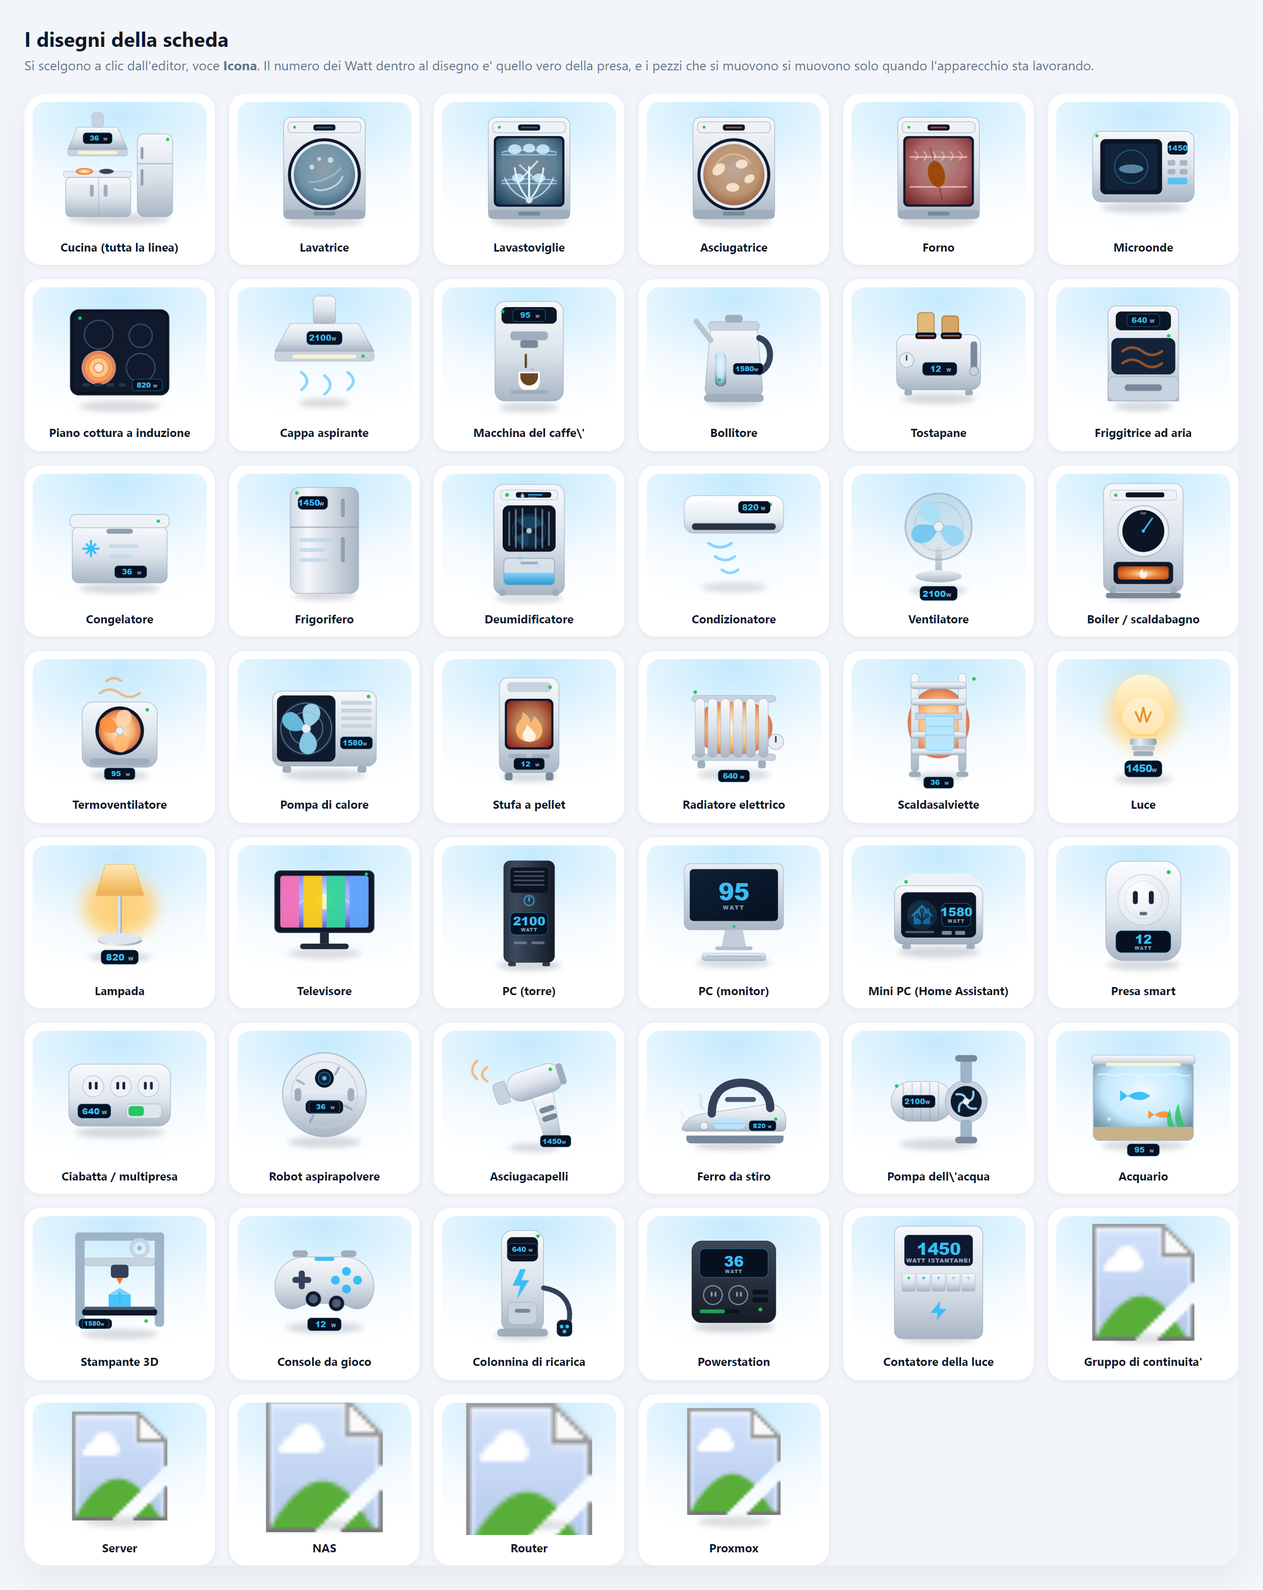
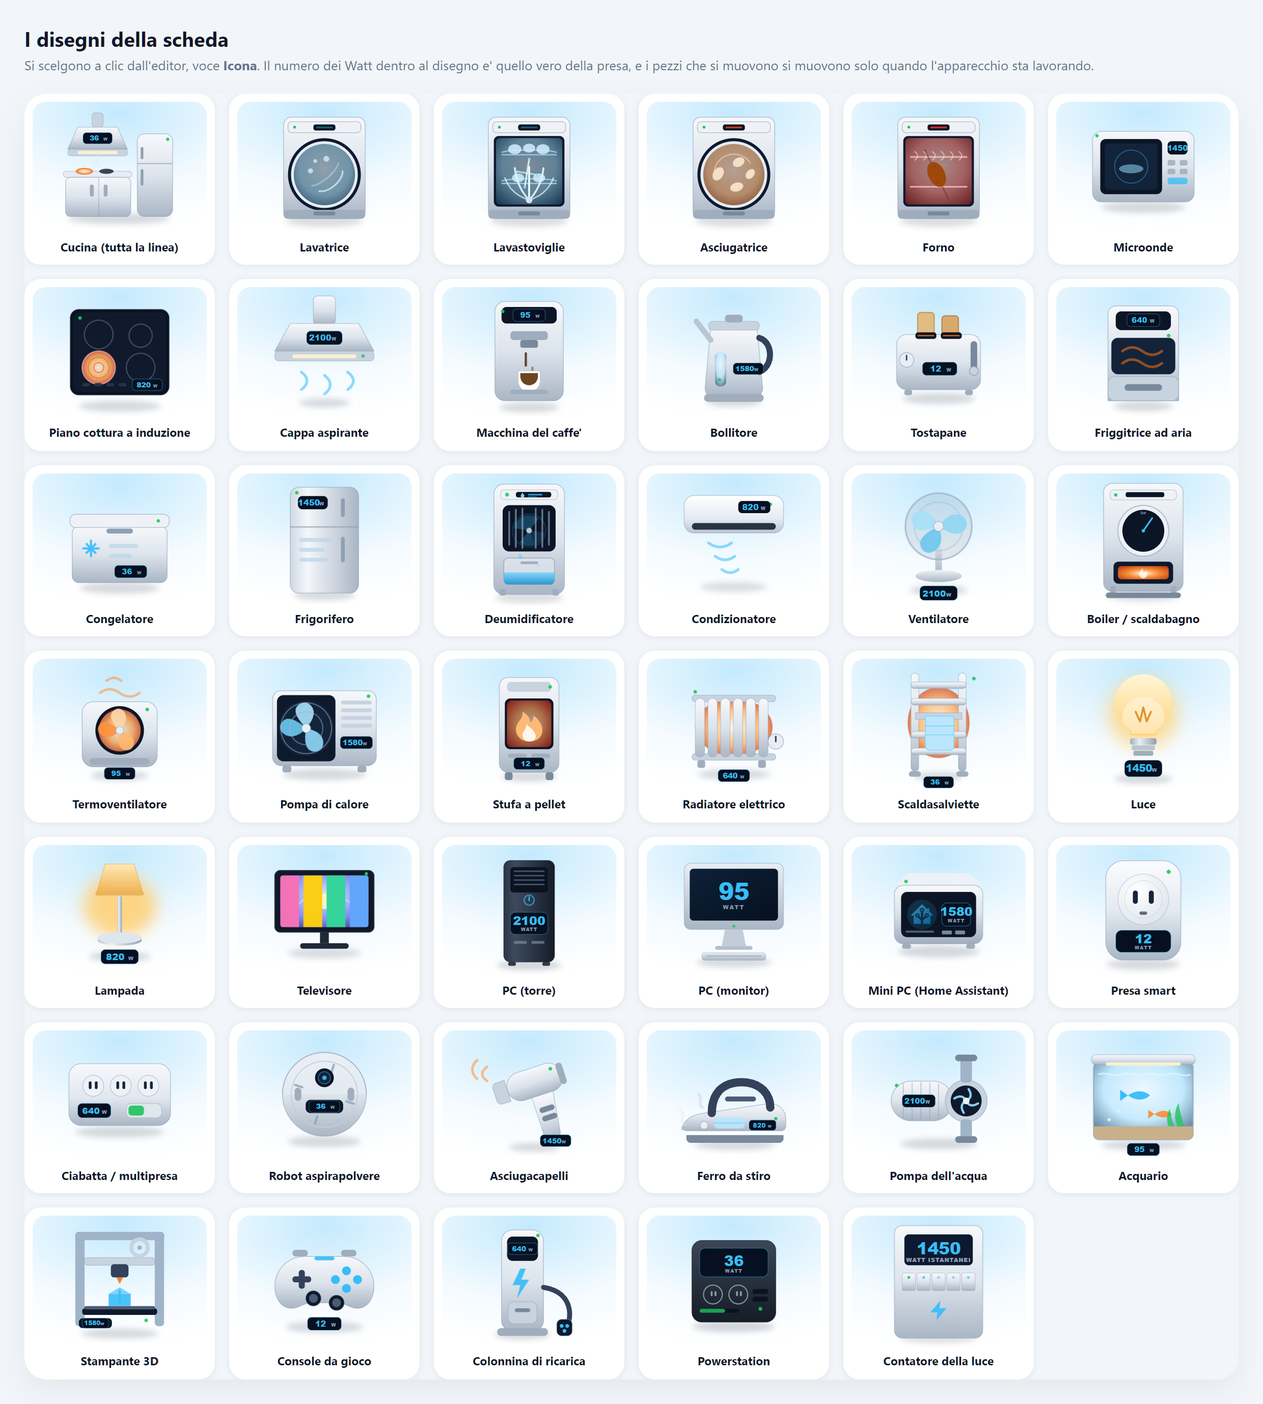
v2.93.1 - via i cinque "disegni" che erano foto mie
ups, server, nas, fritzbox e proxmox non erano disegnati: dentro avevano un
<image href="/local/foto-pkg/...">, cioe' una foto presa da una cartella che
esiste solo sul mio box. Su qualunque altra installazione venivano fuori
cinque rettangoli con l'icona di immagine rotta - e si vedevano anche nel
foglio dei disegni pubblicato ieri nel README.

In piu' erano marchi di altri (APC, Synology, AVM, Proxmox, il logo di Home
Assistant): non e' roba da mettere dentro a una card che si pubblica.

Via da tutte e quattro le parti: i disegni grandi, le iconcine in cima,
l'elenco dell'editor e le parole con cui la scheda indovina. Restano 41, tutti
disegnati. Foglio del README rifatto.

diff --git a/dist/casa-tile-card.js b/dist/casa-tile-card.js
@@ -4148,48 +4148,6 @@ const HERO_BUILDERS = {
     <rect x="76" y="178" width="88" height="10" rx="5" fill="#1f2937"/>
     <circle cx="196" cy="52" r="3" fill="#22c55e"/>
   </svg>`,
-  fritzbox: (id) => `<svg width="100%" height="100%" viewBox="0 0 240 240" preserveAspectRatio="xMidYMid meet" role="img" aria-hidden="true">
-    <defs>
-      <filter id="dmh-blur-${id}" x="-40%" y="-40%" width="180%" height="180%"><feGaussianBlur stdDeviation="5"/></filter>
-    </defs>
-    <ellipse cx="120" cy="222" rx="80" ry="9" fill="#0f172a" opacity=".14" filter="url(#dmh-blur-${id})"/>
-    <g class="dmh-glow" opacity=".7" stroke="#38bdf8" stroke-linecap="round" stroke-width="2.6" fill="none">
-      <path d="M111 42c3-3 15-3 18 0"/>
-      <path d="M103 36c8-7 26-7 34 0"/>
-      <path d="M95 30c13-11 37-11 50 0"/>
-    </g>
-    <circle cx="120" cy="44" r="2.6" fill="#38bdf8"/>
-    <image href="/local/foto-pkg/fritz-box.png" x="-44.43" y="1" width="328.86" height="260.82" preserveAspectRatio="xMidYMid meet"/>
-  </svg>`,
-  server: (id) => `<svg width="100%" height="100%" viewBox="0 0 240 240" preserveAspectRatio="xMidYMid meet" role="img" aria-hidden="true">
-    <defs>
-      <filter id="dmh-blur-${id}" x="-40%" y="-40%" width="180%" height="180%"><feGaussianBlur stdDeviation="5"/></filter>
-    </defs>
-    <ellipse cx="120" cy="216" rx="66" ry="10" fill="#0f172a" opacity=".14" filter="url(#dmh-blur-${id})"/>
-    <image href="/local/foto-pkg/ha_logo.gif" x="21.33" y="16.3" width="197.34" height="197.34" preserveAspectRatio="xMidYMid meet"/>
-  </svg>`,
-  proxmox: (id) => `<svg width="100%" height="100%" viewBox="0 0 240 240" preserveAspectRatio="xMidYMid meet" role="img" aria-hidden="true">
-    <defs>
-      <filter id="dmh-blur-${id}" x="-40%" y="-40%" width="180%" height="180%"><feGaussianBlur stdDeviation="5"/></filter>
-    </defs>
-    <ellipse cx="120" cy="216" rx="66" ry="10" fill="#0f172a" opacity=".14" filter="url(#dmh-blur-${id})"/>
-    <image href="/local/foto-pkg/proxmox-logo.svg" x="-1" y="10" width="242" height="193.6" preserveAspectRatio="xMidYMid meet"/>
-  </svg>`,
-  nas: (id) => `<svg width="100%" height="100%" viewBox="0 0 240 240" preserveAspectRatio="xMidYMid meet" role="img" aria-hidden="true">
-    <defs>
-      <filter id="dmh-blur-${id}" x="-40%" y="-40%" width="180%" height="180%"><feGaussianBlur stdDeviation="5"/></filter>
-    </defs>
-    <ellipse cx="120" cy="222" rx="70" ry="9" fill="#0f172a" opacity=".14" filter="url(#dmh-blur-${id})"/>
-    <image href="/local/foto-pkg/synology-ds925.png" x="-1" y="-7" width="242" height="242" preserveAspectRatio="xMidYMid meet"/>
-  </svg>`,
-  // Mini PC: il computerino che tiene acceso Home Assistant. Sul frontale il
-  // logo di casa (lo stesso disegno dell'icona mdi:home-assistant) e accanto
-  // il displayino con i watt di adesso, che la scheda riscrive da sola.
-  // Presa smart: la vede di faccia, con i due fori, il tastino e il displayino
-  // dei watt in basso (lo riscrive la scheda). Per le prese che misurano.
-  // Torre del PC: griglia d'aria in alto, tasto d'accensione che pulsa e il
-  // displayino dei watt sul frontale.
-  // Luce: la lampadina che si accende davvero quando l'entita' e' accesa.
   luce: (id) => `<svg width="100%" height="100%" viewBox="0 0 240 240" preserveAspectRatio="xMidYMid meet" role="img" aria-hidden="true">
     <defs>
       <filter id="dmh-blur-${id}" x="-40%" y="-40%" width="180%" height="180%"><feGaussianBlur stdDeviation="5"/></filter>
@@ -4487,15 +4445,6 @@ const HERO_BUILDERS = {
     <circle cx="174" cy="112" r="2.4" fill="#38bdf8" class="dmh-flicker" style="animation-delay:.6s"/>
     <path d="M13 2 3 14h7l-1 8 10-12h-7l1-8z" fill="#38bdf8" opacity=".85" class="dmh-glow" transform="translate(100 150) scale(1.8)"/>
   </svg>`,
-  ups: (id) => `<svg width="100%" height="100%" viewBox="0 0 240 240" preserveAspectRatio="xMidYMid meet" role="img" aria-hidden="true">
-    <defs>
-      <filter id="dmh-blur-${id}" x="-40%" y="-40%" width="180%" height="180%"><feGaussianBlur stdDeviation="5"/></filter>
-    </defs>
-    <ellipse cx="120" cy="222" rx="60" ry="9" fill="#0f172a" opacity=".14" filter="url(#dmh-blur-${id})"/>
-    <image href="/local/foto-pkg/apc-ups.png" x="17.15" y="14" width="205.7" height="211.75" preserveAspectRatio="xMidYMid meet"/>
-  </svg>`,
-  // Deumidificatore: torre con la griglia dell'aria, la ventola che gira dietro
-  // le lamelle, le gocce che cadono nella tanica e l'acqua che ondeggia piano.
   dehumidifier: (id) => `<svg width="100%" height="100%" viewBox="0 0 240 240" preserveAspectRatio="xMidYMid meet" role="img" aria-hidden="true">
     <defs>
       <filter id="dmh-blur-${id}" x="-40%" y="-40%" width="180%" height="180%"><feGaussianBlur stdDeviation="5"/></filter>
@@ -4586,12 +4535,6 @@ const CHIP_SVGS = {
     '<svg viewBox="0 0 96 96" width="27" height="27"><rect x="14" y="10" width="68" height="76" rx="9" fill="#0f2942"/><circle cx="48" cy="38" r="17" fill="#f8fafc"/><path d="M48 26c-5 7-9 10-9 16a9 9 0 0 0 18 0c0-3-1-6-3-8 0 3-2 5-4 4-2-1-2-5-1-7-3 1-4 3-4 3z" fill="#fb923c"/><rect x="28" y="62" width="40" height="10" rx="4" fill="#38bdf8"/></svg>',
   tv:
     '<svg viewBox="0 0 96 96" width="27" height="27"><rect x="10" y="20" width="76" height="48" rx="6" fill="#0f2942"/><rect x="16" y="26" width="64" height="36" rx="3" fill="#8be2ff"/><rect x="42" y="68" width="12" height="10" fill="#0f2942"/><rect x="30" y="78" width="36" height="6" rx="3" fill="#0f2942"/></svg>',
-  fritzbox:
-    '<svg viewBox="0 0 96 96" width="27" height="27"><rect x="10" y="34" width="76" height="30" rx="8" fill="#0f2942"/><circle cx="26" cy="49" r="3" fill="#22c55e"/><circle cx="38" cy="49" r="3" fill="#38bdf8"/><circle cx="50" cy="49" r="3" fill="#38bdf8"/><path d="M48 30c-10-10-10-24 0-34" stroke="#38bdf8" stroke-width="3" fill="none" stroke-linecap="round" transform="translate(0 8)"/><path d="M48 30c-4-4-4-10 0-14" stroke="#38bdf8" stroke-width="3" fill="none" stroke-linecap="round" transform="translate(0 8)"/></svg>',
-  server:
-    '<svg viewBox="0 0 96 96" width="27" height="27"><rect x="14" y="10" width="68" height="76" rx="9" fill="#0f2942"/><rect x="20" y="16" width="56" height="16" rx="4" fill="#0b1526"/><circle cx="28" cy="24" r="2.6" fill="#22c55e"/><circle cx="36" cy="24" r="2.6" fill="#38bdf8"/><rect x="44" y="21.5" width="26" height="5" rx="2.5" fill="#38bdf8" opacity=".6"/><rect x="20" y="36" width="56" height="16" rx="4" fill="#0b1526"/><circle cx="28" cy="44" r="2.6" fill="#22c55e"/><circle cx="36" cy="44" r="2.6" fill="#38bdf8"/><rect x="44" y="41.5" width="26" height="5" rx="2.5" fill="#38bdf8" opacity=".6"/><rect x="20" y="56" width="56" height="16" rx="4" fill="#0b1526"/><circle cx="28" cy="64" r="2.6" fill="#22c55e"/><circle cx="36" cy="64" r="2.6" fill="#38bdf8"/><rect x="44" y="61.5" width="26" height="5" rx="2.5" fill="#38bdf8" opacity=".6"/></svg>',
-  nas:
-    '<svg viewBox="0 0 96 96" width="27" height="27"><rect x="30" y="8" width="36" height="80" rx="6" fill="#0f2942"/><rect x="36" y="16" width="24" height="10" rx="2" fill="#0b1526"/><circle cx="42" cy="21" r="2" fill="#22c55e"/><rect x="36" y="30" width="24" height="10" rx="2" fill="#0b1526"/><circle cx="42" cy="35" r="2" fill="#38bdf8"/><rect x="36" y="44" width="24" height="10" rx="2" fill="#0b1526"/><circle cx="42" cy="49" r="2" fill="#38bdf8"/><rect x="36" y="58" width="24" height="10" rx="2" fill="#0b1526"/><circle cx="42" cy="63" r="2" fill="#38bdf8"/></svg>',
   luce:
     '<svg viewBox="0 0 96 96" width="27" height="27"><rect x="14" y="10" width="68" height="76" rx="9" fill="#0f2942"/><path d="M48 20a20 20 0 0 1 12 36c-2 2-3 4-3 6H39c0-2-1-4-3-6a20 20 0 0 1 12-36z" fill="#f8fafc"/><path d="M41 38l4 8 3-12 3 12 4-8" fill="none" stroke="#0f2942" stroke-width="3" stroke-linecap="round" stroke-linejoin="round"/><rect x="40" y="64" width="16" height="5" rx="2.5" fill="#8be2ff"/><rect x="38" y="72" width="20" height="8" rx="3" fill="#38bdf8"/></svg>',
   condizionatore:
@@ -4618,8 +4561,6 @@ const CHIP_SVGS = {
     '<svg viewBox="0 0 96 96" width="27" height="27"><g transform="translate(0,-6.5)"><rect x="10" y="26" width="76" height="48" rx="9" fill="#0f2942"/><g transform="translate(48 50) scale(1.55) translate(-12 -12)"><path d="M21.8,13H20V21H13V17.67L15.79,14.88L16.5,15C17.66,15 18.6,14.06 18.6,12.9C18.6,11.74 17.66,10.8 16.5,10.8A2.1,2.1 0 0,0 14.4,12.9L14.5,13.61L13,15.13V9.65C13.66,9.29 14.1,8.6 14.1,7.8A2.1,2.1 0 0,0 12,5.7A2.1,2.1 0 0,0 9.9,7.8C9.9,8.6 10.34,9.29 11,9.65V15.13L9.5,13.61L9.6,12.9A2.1,2.1 0 0,0 7.5,10.8A2.1,2.1 0 0,0 5.4,12.9A2.1,2.1 0 0,0 7.5,15L8.21,14.88L11,17.67V21H4V13H2.25C1.83,13 1.42,13 1.42,12.79C1.43,12.57 1.85,12.15 2.28,11.72L11,3C11.33,2.67 11.67,2.33 12,2.33C12.33,2.33 12.67,2.67 13,3L17,7V6H19V9L21.78,11.78C22.18,12.18 22.59,12.59 22.6,12.8C22.6,13 22.2,13 21.8,13M7.5,12A0.9,0.9 0 0,1 8.4,12.9A0.9,0.9 0 0,1 7.5,13.8A0.9,0.9 0 0,1 6.6,12.9A0.9,0.9 0 0,1 7.5,12M16.5,12C17,12 17.4,12.4 17.4,12.9C17.4,13.4 17,13.8 16.5,13.8A0.9,0.9 0 0,1 15.6,12.9A0.9,0.9 0 0,1 16.5,12M12,6.9C12.5,6.9 12.9,7.3 12.9,7.8C12.9,8.3 12.5,8.7 12,8.7C11.5,8.7 11.1,8.3 11.1,7.8C11.1,7.3 11.5,6.9 12,6.9Z" fill="#38bdf8"/></g><rect x="22" y="78" width="52" height="5" rx="2.5" fill="#0f2942" opacity=".55"/></g></svg>',
   energy:
     '<svg viewBox="0 0 96 96" width="27" height="27"><rect x="14" y="10" width="68" height="76" rx="9" fill="#0f2942"/><path d="M52 22 30 54h14l-2 20 26-34H54l-2-18z" fill="#38bdf8"/></svg>',
-  ups:
-    '<svg viewBox="0 0 96 96" width="27" height="27"><rect x="24" y="8" width="48" height="80" rx="8" fill="#0f2942"/><rect x="34" y="20" width="28" height="46" rx="4" fill="none" stroke="#8be2ff" stroke-width="3"/><rect x="38" y="26" width="20" height="34" rx="2" fill="#38bdf8"/><circle cx="48" cy="76" r="3" fill="#22c55e"/></svg>',
 };
 
 const ICON_CHART =
@@ -9981,7 +9922,7 @@ ha-form[acceso] { outline: 2px solid var(--primary-color, #5ec8ff);
 // -*- coding: utf-8 -*-
 // Che versione e': la scrivo in un posto solo.
 
-const VERSIONE = "2.93.0";
+const VERSIONE = "2.93.1";
 
 // -*- coding: utf-8 -*-
 // Il riquadro delle impostazioni.
@@ -24316,11 +24257,6 @@ const DISEGNI = [
   ["colonnina", "Colonnina di ricarica"],
   ["powerstation", "Powerstation"],
   ["energy", "Contatore della luce"],
-  ["ups", "Gruppo di continuita'"],
-  ["server", "Server"],
-  ["nas", "NAS"],
-  ["fritzbox", "Router"],
-  ["proxmox", "Proxmox"],
 ];
 
 const ETICHETTE = {

diff --git a/src/elettro-comune.js b/src/elettro-comune.js
@@ -152,48 +152,6 @@ const HERO_BUILDERS = {
     <rect x="76" y="178" width="88" height="10" rx="5" fill="#1f2937"/>
     <circle cx="196" cy="52" r="3" fill="#22c55e"/>
   </svg>`,
-  fritzbox: (id) => `<svg width="100%" height="100%" viewBox="0 0 240 240" preserveAspectRatio="xMidYMid meet" role="img" aria-hidden="true">
-    <defs>
-      <filter id="dmh-blur-${id}" x="-40%" y="-40%" width="180%" height="180%"><feGaussianBlur stdDeviation="5"/></filter>
-    </defs>
-    <ellipse cx="120" cy="222" rx="80" ry="9" fill="#0f172a" opacity=".14" filter="url(#dmh-blur-${id})"/>
-    <g class="dmh-glow" opacity=".7" stroke="#38bdf8" stroke-linecap="round" stroke-width="2.6" fill="none">
-      <path d="M111 42c3-3 15-3 18 0"/>
-      <path d="M103 36c8-7 26-7 34 0"/>
-      <path d="M95 30c13-11 37-11 50 0"/>
-    </g>
-    <circle cx="120" cy="44" r="2.6" fill="#38bdf8"/>
-    <image href="/local/foto-pkg/fritz-box.png" x="-44.43" y="1" width="328.86" height="260.82" preserveAspectRatio="xMidYMid meet"/>
-  </svg>`,
-  server: (id) => `<svg width="100%" height="100%" viewBox="0 0 240 240" preserveAspectRatio="xMidYMid meet" role="img" aria-hidden="true">
-    <defs>
-      <filter id="dmh-blur-${id}" x="-40%" y="-40%" width="180%" height="180%"><feGaussianBlur stdDeviation="5"/></filter>
-    </defs>
-    <ellipse cx="120" cy="216" rx="66" ry="10" fill="#0f172a" opacity=".14" filter="url(#dmh-blur-${id})"/>
-    <image href="/local/foto-pkg/ha_logo.gif" x="21.33" y="16.3" width="197.34" height="197.34" preserveAspectRatio="xMidYMid meet"/>
-  </svg>`,
-  proxmox: (id) => `<svg width="100%" height="100%" viewBox="0 0 240 240" preserveAspectRatio="xMidYMid meet" role="img" aria-hidden="true">
-    <defs>
-      <filter id="dmh-blur-${id}" x="-40%" y="-40%" width="180%" height="180%"><feGaussianBlur stdDeviation="5"/></filter>
-    </defs>
-    <ellipse cx="120" cy="216" rx="66" ry="10" fill="#0f172a" opacity=".14" filter="url(#dmh-blur-${id})"/>
-    <image href="/local/foto-pkg/proxmox-logo.svg" x="-1" y="10" width="242" height="193.6" preserveAspectRatio="xMidYMid meet"/>
-  </svg>`,
-  nas: (id) => `<svg width="100%" height="100%" viewBox="0 0 240 240" preserveAspectRatio="xMidYMid meet" role="img" aria-hidden="true">
-    <defs>
-      <filter id="dmh-blur-${id}" x="-40%" y="-40%" width="180%" height="180%"><feGaussianBlur stdDeviation="5"/></filter>
-    </defs>
-    <ellipse cx="120" cy="222" rx="70" ry="9" fill="#0f172a" opacity=".14" filter="url(#dmh-blur-${id})"/>
-    <image href="/local/foto-pkg/synology-ds925.png" x="-1" y="-7" width="242" height="242" preserveAspectRatio="xMidYMid meet"/>
-  </svg>`,
-  // Mini PC: il computerino che tiene acceso Home Assistant. Sul frontale il
-  // logo di casa (lo stesso disegno dell'icona mdi:home-assistant) e accanto
-  // il displayino con i watt di adesso, che la scheda riscrive da sola.
-  // Presa smart: la vede di faccia, con i due fori, il tastino e il displayino
-  // dei watt in basso (lo riscrive la scheda). Per le prese che misurano.
-  // Torre del PC: griglia d'aria in alto, tasto d'accensione che pulsa e il
-  // displayino dei watt sul frontale.
-  // Luce: la lampadina che si accende davvero quando l'entita' e' accesa.
   luce: (id) => `<svg width="100%" height="100%" viewBox="0 0 240 240" preserveAspectRatio="xMidYMid meet" role="img" aria-hidden="true">
     <defs>
       <filter id="dmh-blur-${id}" x="-40%" y="-40%" width="180%" height="180%"><feGaussianBlur stdDeviation="5"/></filter>
@@ -491,15 +449,6 @@ const HERO_BUILDERS = {
     <circle cx="174" cy="112" r="2.4" fill="#38bdf8" class="dmh-flicker" style="animation-delay:.6s"/>
     <path d="M13 2 3 14h7l-1 8 10-12h-7l1-8z" fill="#38bdf8" opacity=".85" class="dmh-glow" transform="translate(100 150) scale(1.8)"/>
   </svg>`,
-  ups: (id) => `<svg width="100%" height="100%" viewBox="0 0 240 240" preserveAspectRatio="xMidYMid meet" role="img" aria-hidden="true">
-    <defs>
-      <filter id="dmh-blur-${id}" x="-40%" y="-40%" width="180%" height="180%"><feGaussianBlur stdDeviation="5"/></filter>
-    </defs>
-    <ellipse cx="120" cy="222" rx="60" ry="9" fill="#0f172a" opacity=".14" filter="url(#dmh-blur-${id})"/>
-    <image href="/local/foto-pkg/apc-ups.png" x="17.15" y="14" width="205.7" height="211.75" preserveAspectRatio="xMidYMid meet"/>
-  </svg>`,
-  // Deumidificatore: torre con la griglia dell'aria, la ventola che gira dietro
-  // le lamelle, le gocce che cadono nella tanica e l'acqua che ondeggia piano.
   dehumidifier: (id) => `<svg width="100%" height="100%" viewBox="0 0 240 240" preserveAspectRatio="xMidYMid meet" role="img" aria-hidden="true">
     <defs>
       <filter id="dmh-blur-${id}" x="-40%" y="-40%" width="180%" height="180%"><feGaussianBlur stdDeviation="5"/></filter>
@@ -590,12 +539,6 @@ const CHIP_SVGS = {
     '<svg viewBox="0 0 96 96" width="27" height="27"><rect x="14" y="10" width="68" height="76" rx="9" fill="#0f2942"/><circle cx="48" cy="38" r="17" fill="#f8fafc"/><path d="M48 26c-5 7-9 10-9 16a9 9 0 0 0 18 0c0-3-1-6-3-8 0 3-2 5-4 4-2-1-2-5-1-7-3 1-4 3-4 3z" fill="#fb923c"/><rect x="28" y="62" width="40" height="10" rx="4" fill="#38bdf8"/></svg>',
   tv:
     '<svg viewBox="0 0 96 96" width="27" height="27"><rect x="10" y="20" width="76" height="48" rx="6" fill="#0f2942"/><rect x="16" y="26" width="64" height="36" rx="3" fill="#8be2ff"/><rect x="42" y="68" width="12" height="10" fill="#0f2942"/><rect x="30" y="78" width="36" height="6" rx="3" fill="#0f2942"/></svg>',
-  fritzbox:
-    '<svg viewBox="0 0 96 96" width="27" height="27"><rect x="10" y="34" width="76" height="30" rx="8" fill="#0f2942"/><circle cx="26" cy="49" r="3" fill="#22c55e"/><circle cx="38" cy="49" r="3" fill="#38bdf8"/><circle cx="50" cy="49" r="3" fill="#38bdf8"/><path d="M48 30c-10-10-10-24 0-34" stroke="#38bdf8" stroke-width="3" fill="none" stroke-linecap="round" transform="translate(0 8)"/><path d="M48 30c-4-4-4-10 0-14" stroke="#38bdf8" stroke-width="3" fill="none" stroke-linecap="round" transform="translate(0 8)"/></svg>',
-  server:
-    '<svg viewBox="0 0 96 96" width="27" height="27"><rect x="14" y="10" width="68" height="76" rx="9" fill="#0f2942"/><rect x="20" y="16" width="56" height="16" rx="4" fill="#0b1526"/><circle cx="28" cy="24" r="2.6" fill="#22c55e"/><circle cx="36" cy="24" r="2.6" fill="#38bdf8"/><rect x="44" y="21.5" width="26" height="5" rx="2.5" fill="#38bdf8" opacity=".6"/><rect x="20" y="36" width="56" height="16" rx="4" fill="#0b1526"/><circle cx="28" cy="44" r="2.6" fill="#22c55e"/><circle cx="36" cy="44" r="2.6" fill="#38bdf8"/><rect x="44" y="41.5" width="26" height="5" rx="2.5" fill="#38bdf8" opacity=".6"/><rect x="20" y="56" width="56" height="16" rx="4" fill="#0b1526"/><circle cx="28" cy="64" r="2.6" fill="#22c55e"/><circle cx="36" cy="64" r="2.6" fill="#38bdf8"/><rect x="44" y="61.5" width="26" height="5" rx="2.5" fill="#38bdf8" opacity=".6"/></svg>',
-  nas:
-    '<svg viewBox="0 0 96 96" width="27" height="27"><rect x="30" y="8" width="36" height="80" rx="6" fill="#0f2942"/><rect x="36" y="16" width="24" height="10" rx="2" fill="#0b1526"/><circle cx="42" cy="21" r="2" fill="#22c55e"/><rect x="36" y="30" width="24" height="10" rx="2" fill="#0b1526"/><circle cx="42" cy="35" r="2" fill="#38bdf8"/><rect x="36" y="44" width="24" height="10" rx="2" fill="#0b1526"/><circle cx="42" cy="49" r="2" fill="#38bdf8"/><rect x="36" y="58" width="24" height="10" rx="2" fill="#0b1526"/><circle cx="42" cy="63" r="2" fill="#38bdf8"/></svg>',
   luce:
     '<svg viewBox="0 0 96 96" width="27" height="27"><rect x="14" y="10" width="68" height="76" rx="9" fill="#0f2942"/><path d="M48 20a20 20 0 0 1 12 36c-2 2-3 4-3 6H39c0-2-1-4-3-6a20 20 0 0 1 12-36z" fill="#f8fafc"/><path d="M41 38l4 8 3-12 3 12 4-8" fill="none" stroke="#0f2942" stroke-width="3" stroke-linecap="round" stroke-linejoin="round"/><rect x="40" y="64" width="16" height="5" rx="2.5" fill="#8be2ff"/><rect x="38" y="72" width="20" height="8" rx="3" fill="#38bdf8"/></svg>',
   condizionatore:
@@ -622,8 +565,6 @@ const CHIP_SVGS = {
     '<svg viewBox="0 0 96 96" width="27" height="27"><g transform="translate(0,-6.5)"><rect x="10" y="26" width="76" height="48" rx="9" fill="#0f2942"/><g transform="translate(48 50) scale(1.55) translate(-12 -12)"><path d="M21.8,13H20V21H13V17.67L15.79,14.88L16.5,15C17.66,15 18.6,14.06 18.6,12.9C18.6,11.74 17.66,10.8 16.5,10.8A2.1,2.1 0 0,0 14.4,12.9L14.5,13.61L13,15.13V9.65C13.66,9.29 14.1,8.6 14.1,7.8A2.1,2.1 0 0,0 12,5.7A2.1,2.1 0 0,0 9.9,7.8C9.9,8.6 10.34,9.29 11,9.65V15.13L9.5,13.61L9.6,12.9A2.1,2.1 0 0,0 7.5,10.8A2.1,2.1 0 0,0 5.4,12.9A2.1,2.1 0 0,0 7.5,15L8.21,14.88L11,17.67V21H4V13H2.25C1.83,13 1.42,13 1.42,12.79C1.43,12.57 1.85,12.15 2.28,11.72L11,3C11.33,2.67 11.67,2.33 12,2.33C12.33,2.33 12.67,2.67 13,3L17,7V6H19V9L21.78,11.78C22.18,12.18 22.59,12.59 22.6,12.8C22.6,13 22.2,13 21.8,13M7.5,12A0.9,0.9 0 0,1 8.4,12.9A0.9,0.9 0 0,1 7.5,13.8A0.9,0.9 0 0,1 6.6,12.9A0.9,0.9 0 0,1 7.5,12M16.5,12C17,12 17.4,12.4 17.4,12.9C17.4,13.4 17,13.8 16.5,13.8A0.9,0.9 0 0,1 15.6,12.9A0.9,0.9 0 0,1 16.5,12M12,6.9C12.5,6.9 12.9,7.3 12.9,7.8C12.9,8.3 12.5,8.7 12,8.7C11.5,8.7 11.1,8.3 11.1,7.8C11.1,7.3 11.5,6.9 12,6.9Z" fill="#38bdf8"/></g><rect x="22" y="78" width="52" height="5" rx="2.5" fill="#0f2942" opacity=".55"/></g></svg>',
   energy:
     '<svg viewBox="0 0 96 96" width="27" height="27"><rect x="14" y="10" width="68" height="76" rx="9" fill="#0f2942"/><path d="M52 22 30 54h14l-2 20 26-34H54l-2-18z" fill="#38bdf8"/></svg>',
-  ups:
-    '<svg viewBox="0 0 96 96" width="27" height="27"><rect x="24" y="8" width="48" height="80" rx="8" fill="#0f2942"/><rect x="34" y="20" width="28" height="46" rx="4" fill="none" stroke="#8be2ff" stroke-width="3"/><rect x="38" y="26" width="20" height="34" rx="2" fill="#38bdf8"/><circle cx="48" cy="76" r="3" fill="#22c55e"/></svg>',
 };
 
 const ICON_CHART =

diff --git a/src/elettro-elettrodomestico-editor.js b/src/elettro-elettrodomestico-editor.js
@@ -64,11 +64,6 @@ const DISEGNI = [
   ["colonnina", "Colonnina di ricarica"],
   ["powerstation", "Powerstation"],
   ["energy", "Contatore della luce"],
-  ["ups", "Gruppo di continuita'"],
-  ["server", "Server"],
-  ["nas", "NAS"],
-  ["fritzbox", "Router"],
-  ["proxmox", "Proxmox"],
 ];
 
 const ETICHETTE = {

diff --git a/src/versione.js b/src/versione.js
@@ -1,4 +1,4 @@
 // -*- coding: utf-8 -*-
 // Che versione e': la scrivo in un posto solo.
 
-export const VERSIONE = "2.93.0";
+export const VERSIONE = "2.93.1";

diff --git a/README.en.md b/README.en.md
@@ -160,7 +160,7 @@ touches the month if you ask.
 
 ### The artwork
 
-Forty-six drawings, all hand-made. Pick one by click in the editor, **Icon**
+Forty-one drawings, all hand-made. Pick one by click in the editor, **Icon**
 field. The watt number inside the drawing is the real one from the plug, and the
 moving parts - the drum, the blades, the flame, the steam, the bubbles - move
 **only while the appliance is working**. When the card is off the drawing turns

diff --git a/README.md b/README.md
@@ -162,7 +162,7 @@ mese lo tocca solo se glielo chiedi.
 
 ### I disegni
 
-Quarantasei, tutti disegnati a mano. Si scelgono a clic dall'editor, voce
+Quarantuno, tutti disegnati a mano. Si scelgono a clic dall'editor, voce
 **Icona**. Il numero dei Watt dentro al disegno e' quello vero della presa, e i
 pezzi che si muovono - il cestello, le pale, la fiamma, il vapore, le bollicine -
 si muovono **solo mentre l'apparecchio lavora**. A scheda spenta il disegno
